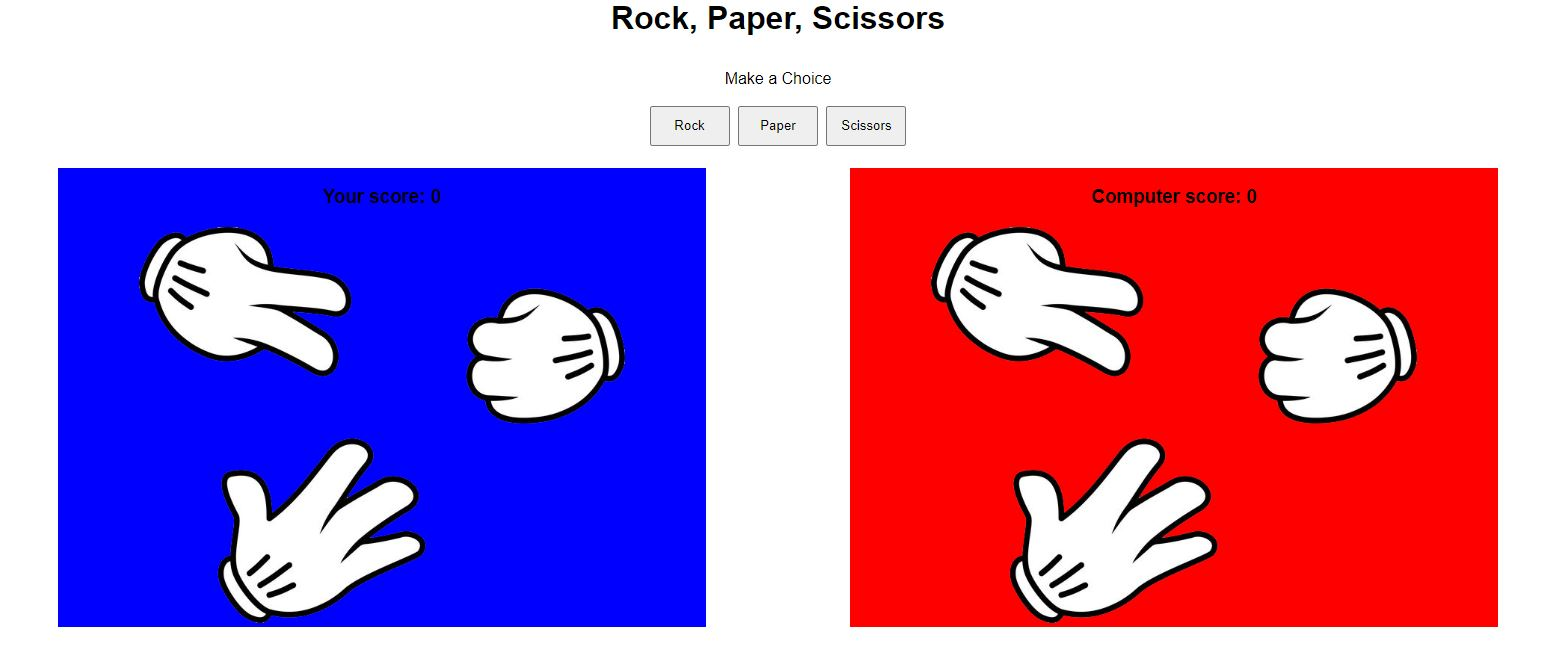
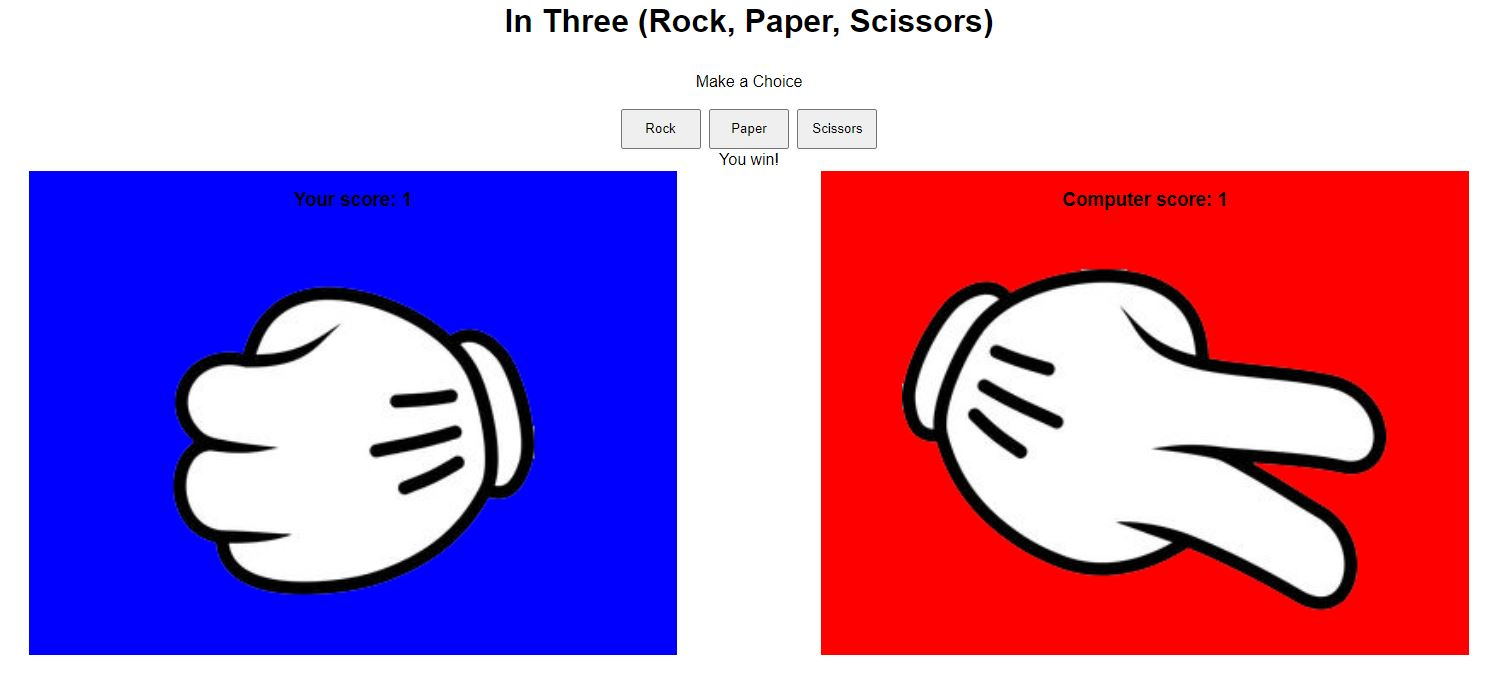
Change the background color for the game area, writing Readme

Changed region(s): [[0.0, 0.0898, 0.9954, 0.9581], [0.3111, 0.0, 0.6532, 0.0599]]

diff --git a/assets/css/style.css b/assets/css/style.css
@@ -60,7 +60,7 @@ footer {
 
 
 .player {
-    background-color: blue;
+    background-color: lightblue;
     float: left;
     width: 45%;
 }
@@ -70,7 +70,7 @@ footer {
 }
 
 .computer {
-    background-color: red;
+    background-color: lightcoral;
     float: right;
     width: 45%;
 }

diff --git a/README.md b/README.md
@@ -6,23 +6,47 @@ Users will learn the rules of Rock Paper Scissors if they never playid it before
 
 ![Website in diffrent browsers](assets/images/helhetsbild.JPG)
 
-##Features
+## Features
 
-###Existing features
+### Existing features
 
-*Header
- *Featured at the top of the page, the header shows the game name: In Three (Rock, Paper, Scissors) in a font that is clearly contrasts with the background.
- *The header clearly tells the user what game they are playing and the name of the site.
+* Header
+ * Featured at the top of the page, the header shows the game name: In Three (Rock, Paper, Scissors) in a font that is clearly contrasts with the background.
+ * The header clearly tells the user what game they are playing and the name of the site.
 
  ![Site header](header.JPG)
 
-*The Game Options
- *The game options includes a clear and visiable instruction. An option of choice are visial to choose from: Rock, Paper, Scissors. These options are interactive buttons that the user can vlick to make their choice.
- *This section provides interactive buttons that the suer can click to make their choice and play the game.
+* The Game Options
+ * The game options includes a clear and visiable instruction. An option of choice are visial to choose from: Rock, Paper, Scissors. These options are interactive buttons that the user can vlick to make their choice.
+ * This section provides interactive buttons that the suer can click to make their choice and play the game.
 
  ![Make a choices](assets/images/Gamefetuers.JPG)
 
-*The Game Resluts
- *
+* The Game Resluts
+ * When the user clicks and makes a chocie, the image relating to their choice is shown on their side of the game bord (To the left).
+ * The JavaScript code chooses a random option for the Computer player, displays the image relating to the computer choice, and then determines who the winner is.
+ * The winner is announced to the user under the options button via a tex stating You win, You lose or Its a Tie, and the score is updated for either the user or the computer by incrementing the numbers by 1, depending on who won.
+ * The results and score are clear to the user, making the game easy to play, understand who won, and what the score is.
+
+ ![Game results](assets/images/gamerules.JPG)
+
+ * The Footer 
+  * The footer section shows the rules of Rock Paper Scissors.
+  * The footer clearly explains how the game is played which is valuable to the user.
+
+  ![Footer](footer.JPG)
+
+### Features Left to Implement
+
+* When there is time, I would like to put in a score board where you can put in you name and the game will be best of three plays to determine who the winner is.
+
+## Testing 
+
+* I tested playing this game in different browsers; Chrome, Firefox, Safari.
+* I confirmed that the game results are always correct.
+* I confirmed that the header, instrutions, options, result and footer text are all readable and easy to understand.
+* I confirmed that the colors and font chosen are easy to read and accessible by running it through ligthouse in devtools
+
+ 
 
 
